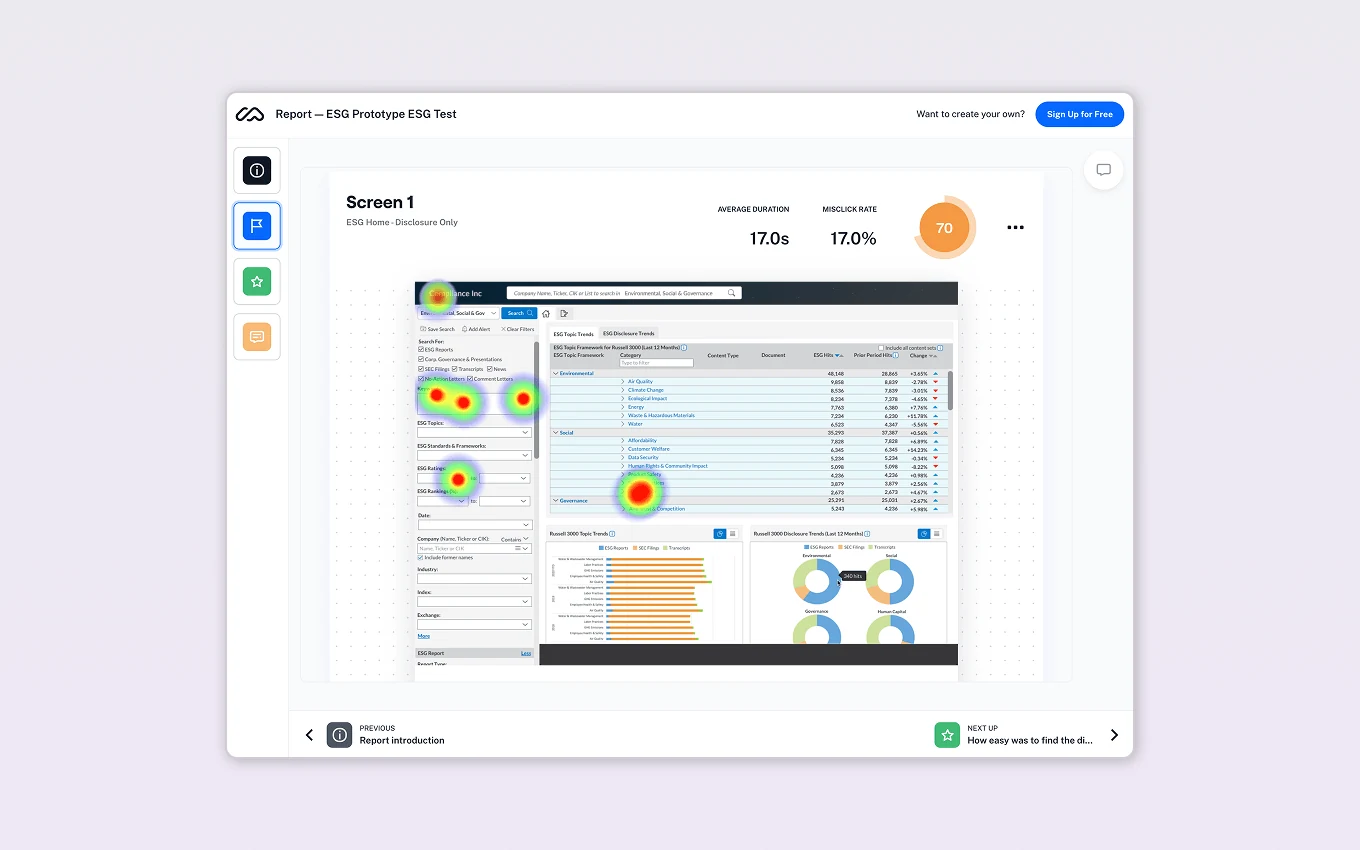
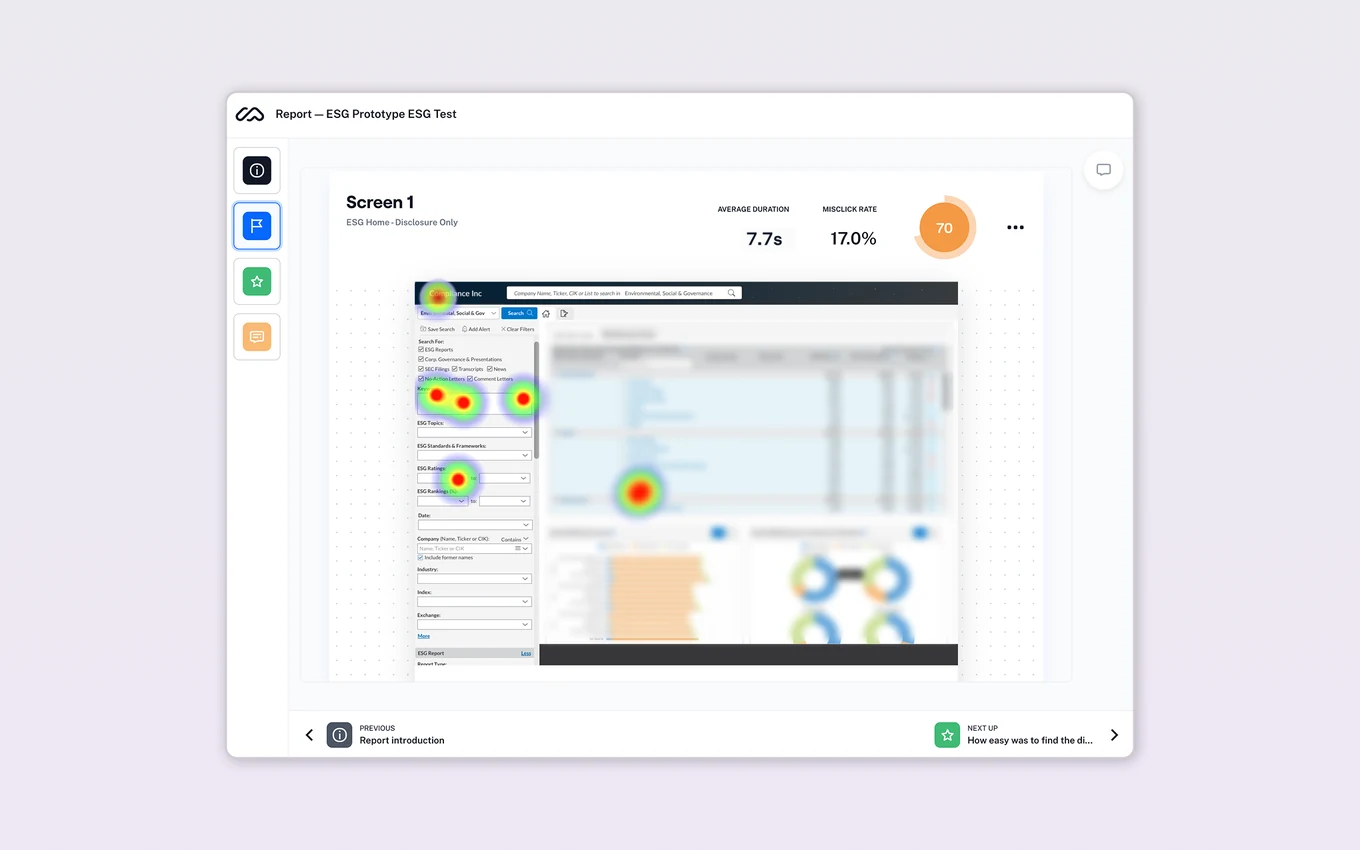
ESG: updated Maze results image (7.7s) with full-size view
Claude-Session: https://claude.ai/code/session_01ScZWVYV6pDDWvBkjzV5qA5

diff --git a/case-studies/esg.html b/case-studies/esg.html
@@ -114,7 +114,7 @@
 <li>All 4 of our survey respondents gave positive answers, ranging from <strong>“relatively easy”</strong> to <strong>“super easy”</strong>.</li>
 </ul>
 <figure class="figure">
-<img src="../assets/img/esg-maze.webp" alt="Maze results report for the first prototype screen, showing average duration, misclick rate and a heatmap of clicks over the ESG search screen" width="1360" height="850" loading="lazy">
+<img src="../assets/img/esg-maze.webp" data-full="../assets/img/esg-maze-full.webp" alt="Maze results report for the first prototype screen, showing a 7.7 second average duration, 17% misclick rate and a heatmap of clicks over the ESG search screen" width="1360" height="850" loading="lazy">
 <figcaption>Maze test results</figcaption>
 </figure>
 </section>
